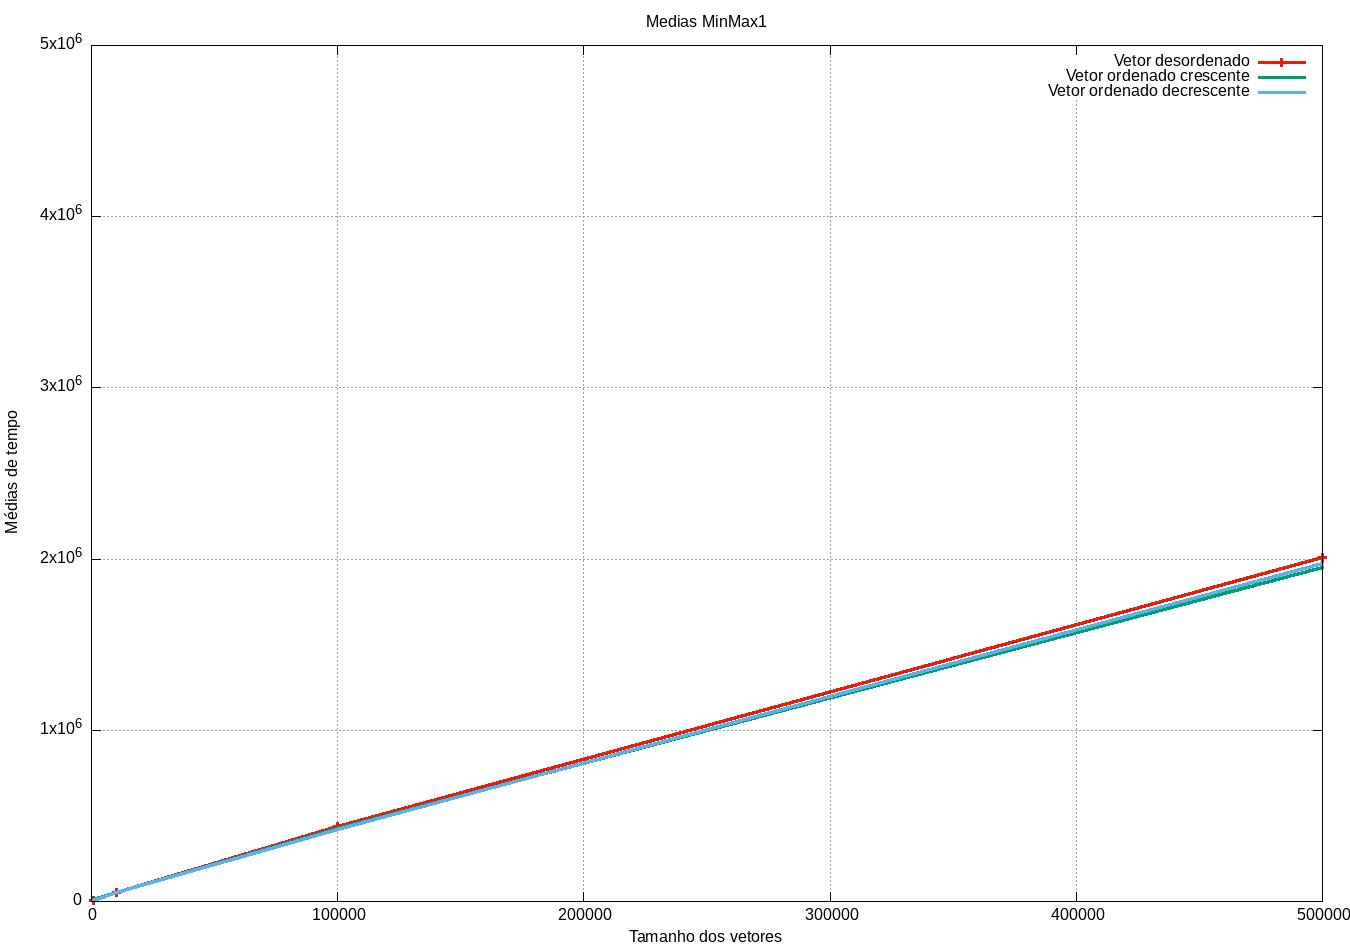
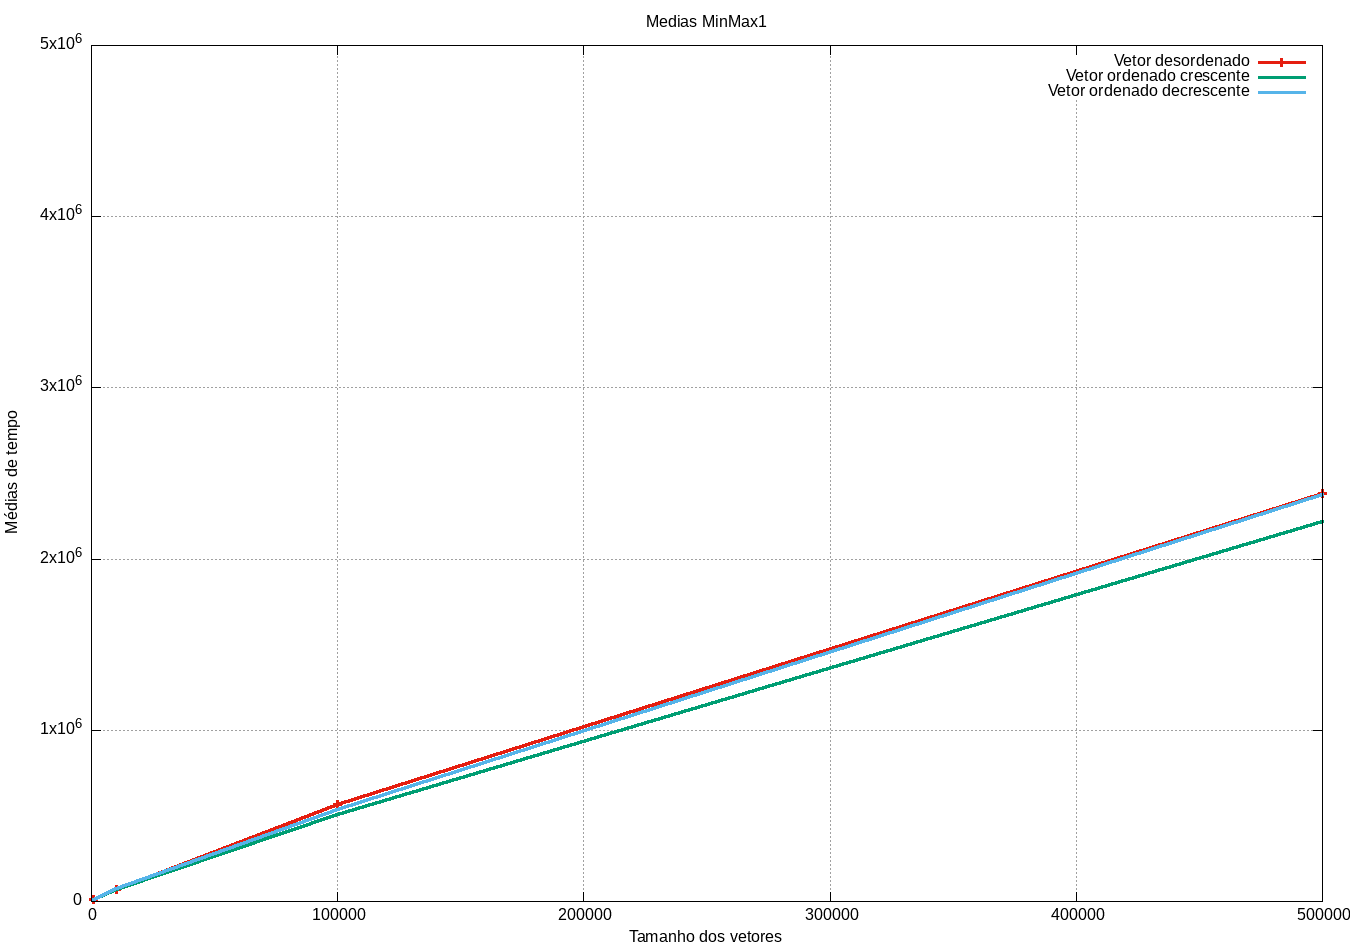
Atualização no código

Changed region(s): [[0.0622, 0.5189, 0.9956, 0.9463]]

diff --git a/src/main.cpp b/src/main.cpp
@@ -5,24 +5,32 @@ int main(){
     MinMax aux;
     
     vector<int> vetor1, vetor2, vetor3, vetor4;
+
+    int aux1 = 10;
+    
     
     aux.Preenche_Vetor(vetor1, 1000, 0, 1000);
     aux.Preenche_Vetor(vetor2, 10000, 0, 1000);
     aux.Preenche_Vetor(vetor3,100000, 0, 1000);
     aux.Preenche_Vetor(vetor4, 500000, 0, 1000);
 
-    aux.PrintarMinMaxAleatorio(vetor1);
-    aux.PrintarMinMaxOrdenado(vetor1);
 
-    aux.PrintarMinMaxAleatorio(vetor2);
-    aux.PrintarMinMaxOrdenado(vetor2);
+    do{
+        aux.PrintarMinMaxAleatorio(vetor1);
+        aux.PrintarMinMaxOrdenado(vetor1);
+
+        aux.PrintarMinMaxAleatorio(vetor2);
+        aux.PrintarMinMaxOrdenado(vetor2);
     
-    aux.PrintarMinMaxAleatorio(vetor3);
-    aux.PrintarMinMaxOrdenado(vetor3);
+        aux.PrintarMinMaxAleatorio(vetor3);
+        aux.PrintarMinMaxOrdenado(vetor3);
     
-    aux.PrintarMinMaxAleatorio(vetor4);
-    aux.PrintarMinMaxOrdenado(vetor4);
-    
+        aux.PrintarMinMaxAleatorio(vetor4);
+        aux.PrintarMinMaxOrdenado(vetor4);
+
+        aux1--;
+
+    } while(aux1 != 0);
 
 
     return 0;

diff --git a/src/MinMax.cpp b/src/MinMax.cpp
@@ -29,7 +29,6 @@ void MinMax :: Preenche_Vetor(vector<int> &vetor, int tamanho, int min, int max)
     }
 
 
-
 }
 
 void MinMax :: MinMax1(vector<int> &vetor, int max, int min){
